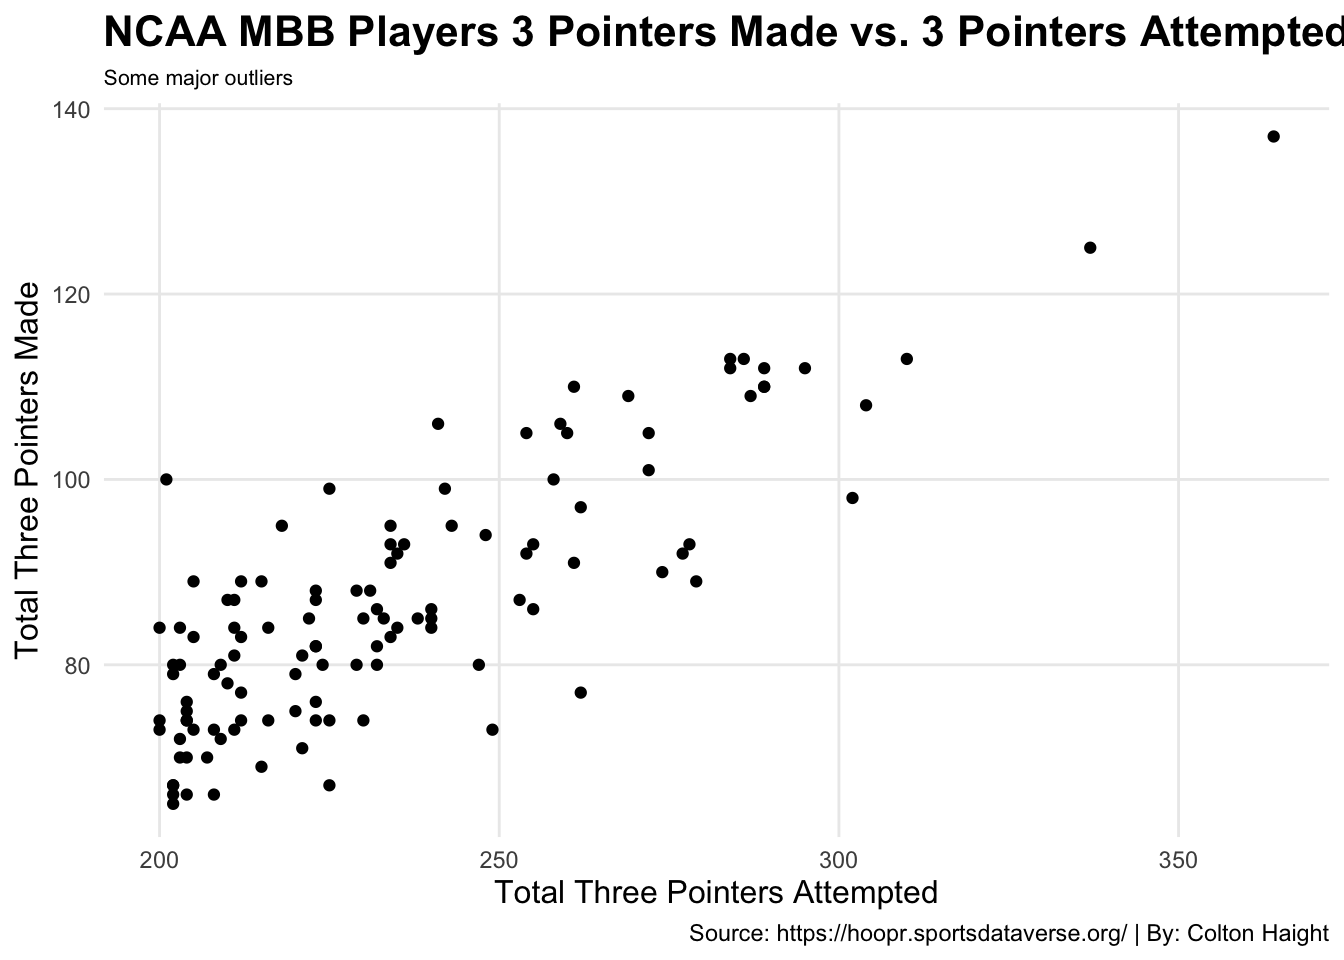
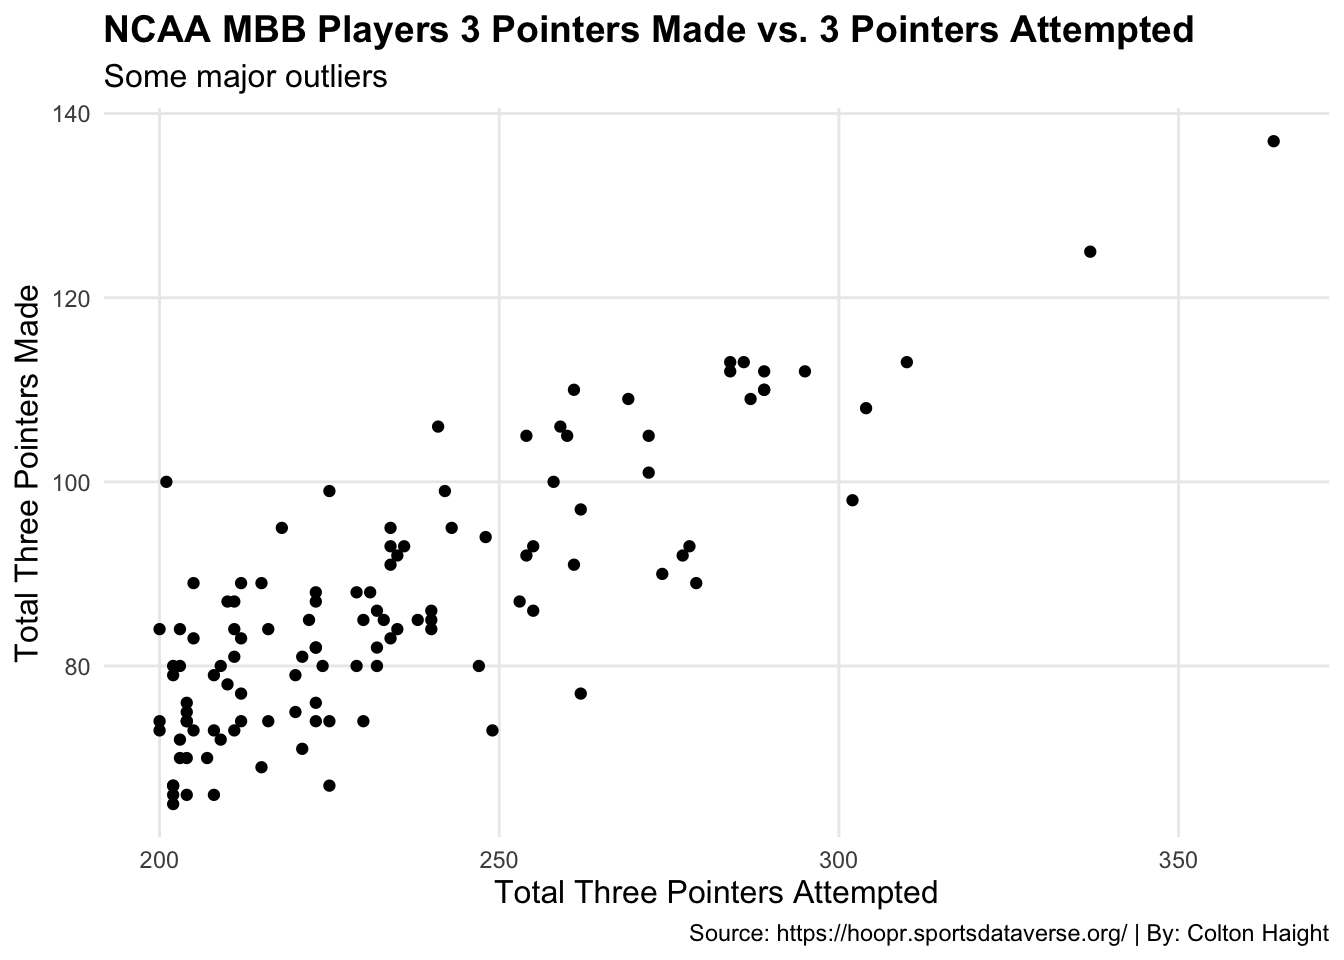
changed plots

diff --git a/posts/best-3pt-shooter-mcbb-2024/index.html b/posts/best-3pt-shooter-mcbb-2024/index.html
@@ -227,9 +227,9 @@ pre > code.sourceCode > span > a:first-child::before { text-decoration: underlin
 <span id="cb1-32"><a href="#cb1-32" aria-hidden="true" tabindex="-1"></a>  ) <span class="sc">+</span></span>
 <span id="cb1-33"><a href="#cb1-33" aria-hidden="true" tabindex="-1"></a>  <span class="fu">theme_minimal</span>() <span class="sc">+</span></span>
 <span id="cb1-34"><a href="#cb1-34" aria-hidden="true" tabindex="-1"></a>  <span class="fu">theme</span>(</span>
-<span id="cb1-35"><a href="#cb1-35" aria-hidden="true" tabindex="-1"></a>    <span class="at">plot.title =</span> <span class="fu">element_text</span>(<span class="at">size =</span> <span class="dv">16</span>, <span class="at">face =</span> <span class="st">"bold"</span>),</span>
+<span id="cb1-35"><a href="#cb1-35" aria-hidden="true" tabindex="-1"></a>    <span class="at">plot.title =</span> <span class="fu">element_text</span>(<span class="at">size =</span> <span class="dv">14</span>, <span class="at">face =</span> <span class="st">"bold"</span>),</span>
 <span id="cb1-36"><a href="#cb1-36" aria-hidden="true" tabindex="-1"></a>    <span class="at">axis.title =</span> <span class="fu">element_text</span>(<span class="at">size =</span> <span class="dv">12</span>), </span>
-<span id="cb1-37"><a href="#cb1-37" aria-hidden="true" tabindex="-1"></a>    <span class="at">plot.subtitle =</span> <span class="fu">element_text</span>(<span class="at">size =</span> <span class="dv">8</span>), </span>
+<span id="cb1-37"><a href="#cb1-37" aria-hidden="true" tabindex="-1"></a>    <span class="at">plot.subtitle =</span> <span class="fu">element_text</span>(<span class="at">size =</span> <span class="dv">12</span>), </span>
 <span id="cb1-38"><a href="#cb1-38" aria-hidden="true" tabindex="-1"></a>    <span class="at">panel.grid.minor =</span> <span class="fu">element_blank</span>()</span>
 <span id="cb1-39"><a href="#cb1-39" aria-hidden="true" tabindex="-1"></a>  )</span></code><button title="Copy to Clipboard" class="code-copy-button"><i class="bi"></i></button></pre></div>
 </details>
@@ -240,6 +240,9 @@ pre > code.sourceCode > span > a:first-child::before { text-decoration: underlin
 </figure>
 </div>
 </div>
+</div>
+<p>hello</p>
+<div class="cell">
 <details class="code-fold">
 <summary>Code</summary>
 <div class="sourceCode cell-code" id="cb2"><pre class="sourceCode r code-with-copy"><code class="sourceCode r"><span id="cb2-1"><a href="#cb2-1" aria-hidden="true" tabindex="-1"></a>jg3pt <span class="ot">&lt;-</span> mbb3pt199<span class="sc">|&gt;</span> <span class="fu">filter</span>(athlete_display_name <span class="sc">==</span> <span class="st">"Jack Gohlke"</span>)</span>
@@ -256,23 +259,27 @@ pre > code.sourceCode > span > a:first-child::before { text-decoration: underlin
 <span id="cb2-12"><a href="#cb2-12" aria-hidden="true" tabindex="-1"></a>    <span class="at">y =</span> <span class="st">"Total Three Pointers Made"</span>,</span>
 <span id="cb2-13"><a href="#cb2-13" aria-hidden="true" tabindex="-1"></a>    <span class="at">title =</span> <span class="st">"NCAA MBB Players 3 Pointers Made vs. 3 Pointers Attempted"</span>,</span>
 <span id="cb2-14"><a href="#cb2-14" aria-hidden="true" tabindex="-1"></a>    <span class="at">subtitle =</span> <span class="st">"Bubble size is based off player three point percentage"</span>,</span>
-<span id="cb2-15"><a href="#cb2-15" aria-hidden="true" tabindex="-1"></a>    <span class="at">caption =</span> <span class="st">"Source: https://hoopr.sportsdataverse.org/ | By: Colton Haight"</span></span>
-<span id="cb2-16"><a href="#cb2-16" aria-hidden="true" tabindex="-1"></a>  ) <span class="sc">+</span></span>
-<span id="cb2-17"><a href="#cb2-17" aria-hidden="true" tabindex="-1"></a>  <span class="fu">theme_minimal</span>() <span class="sc">+</span></span>
-<span id="cb2-18"><a href="#cb2-18" aria-hidden="true" tabindex="-1"></a>  <span class="fu">theme</span>(</span>
-<span id="cb2-19"><a href="#cb2-19" aria-hidden="true" tabindex="-1"></a>    <span class="at">plot.title =</span> <span class="fu">element_text</span>(<span class="at">size =</span> <span class="dv">16</span>, <span class="at">face =</span> <span class="st">"bold"</span>),</span>
-<span id="cb2-20"><a href="#cb2-20" aria-hidden="true" tabindex="-1"></a>    <span class="at">axis.title =</span> <span class="fu">element_text</span>(<span class="at">size =</span> <span class="dv">12</span>), </span>
-<span id="cb2-21"><a href="#cb2-21" aria-hidden="true" tabindex="-1"></a>    <span class="at">plot.subtitle =</span> <span class="fu">element_text</span>(<span class="at">size =</span> <span class="dv">8</span>), </span>
-<span id="cb2-22"><a href="#cb2-22" aria-hidden="true" tabindex="-1"></a>    <span class="at">panel.grid.minor =</span> <span class="fu">element_blank</span>()</span>
-<span id="cb2-23"><a href="#cb2-23" aria-hidden="true" tabindex="-1"></a>)</span></code><button title="Copy to Clipboard" class="code-copy-button"><i class="bi"></i></button></pre></div>
+<span id="cb2-15"><a href="#cb2-15" aria-hidden="true" tabindex="-1"></a>    <span class="at">caption =</span> <span class="st">"Source: https://hoopr.sportsdataverse.org/ | By: Colton Haight"</span>,</span>
+<span id="cb2-16"><a href="#cb2-16" aria-hidden="true" tabindex="-1"></a>    <span class="at">size =</span> <span class="st">"Player 3pt %"</span></span>
+<span id="cb2-17"><a href="#cb2-17" aria-hidden="true" tabindex="-1"></a>  ) <span class="sc">+</span></span>
+<span id="cb2-18"><a href="#cb2-18" aria-hidden="true" tabindex="-1"></a>  <span class="fu">theme_minimal</span>() <span class="sc">+</span></span>
+<span id="cb2-19"><a href="#cb2-19" aria-hidden="true" tabindex="-1"></a>  <span class="fu">theme</span>(</span>
+<span id="cb2-20"><a href="#cb2-20" aria-hidden="true" tabindex="-1"></a>    <span class="at">plot.title =</span> <span class="fu">element_text</span>(<span class="at">size =</span> <span class="dv">14</span>, <span class="at">face =</span> <span class="st">"bold"</span>),</span>
+<span id="cb2-21"><a href="#cb2-21" aria-hidden="true" tabindex="-1"></a>    <span class="at">axis.title =</span> <span class="fu">element_text</span>(<span class="at">size =</span> <span class="dv">12</span>), </span>
+<span id="cb2-22"><a href="#cb2-22" aria-hidden="true" tabindex="-1"></a>    <span class="at">plot.subtitle =</span> <span class="fu">element_text</span>(<span class="at">size =</span> <span class="dv">12</span>), </span>
+<span id="cb2-23"><a href="#cb2-23" aria-hidden="true" tabindex="-1"></a>    <span class="at">panel.grid.minor =</span> <span class="fu">element_blank</span>()</span>
+<span id="cb2-24"><a href="#cb2-24" aria-hidden="true" tabindex="-1"></a>)</span></code><button title="Copy to Clipboard" class="code-copy-button"><i class="bi"></i></button></pre></div>
 </details>
 <div class="cell-output-display">
 <div>
 <figure class="figure">
-<p><img src="index_files/figure-html/unnamed-chunk-1-2.png" class="img-fluid figure-img" width="672"></p>
+<p><img src="index_files/figure-html/unnamed-chunk-2-1.png" class="img-fluid figure-img" width="672"></p>
 </figure>
 </div>
 </div>
+</div>
+<p>hello</p>
+<div class="cell">
 <details class="code-fold">
 <summary>Code</summary>
 <div class="sourceCode cell-code" id="cb3"><pre class="sourceCode r code-with-copy"><code class="sourceCode r"><span id="cb3-1"><a href="#cb3-1" aria-hidden="true" tabindex="-1"></a>mbb3pt40pct <span class="ot">&lt;-</span> mbb3pt199<span class="sc">|&gt;</span></span>
@@ -297,23 +304,27 @@ pre > code.sourceCode > span > a:first-child::before { text-decoration: underlin
 <span id="cb3-20"><a href="#cb3-20" aria-hidden="true" tabindex="-1"></a>    <span class="at">y =</span> <span class="st">"Player Three Point Percentage"</span>,</span>
 <span id="cb3-21"><a href="#cb3-21" aria-hidden="true" tabindex="-1"></a>    <span class="at">title =</span> <span class="st">"NCAA MBB Players 3 Point Percentage vs. Total Points Scored"</span>,</span>
 <span id="cb3-22"><a href="#cb3-22" aria-hidden="true" tabindex="-1"></a>    <span class="at">subtitle =</span> <span class="st">"Bubble size is based off player total three pointers made"</span>,</span>
-<span id="cb3-23"><a href="#cb3-23" aria-hidden="true" tabindex="-1"></a>    <span class="at">caption =</span> <span class="st">"Source: https://hoopr.sportsdataverse.org/ | By: Colton Haight"</span></span>
-<span id="cb3-24"><a href="#cb3-24" aria-hidden="true" tabindex="-1"></a>  ) <span class="sc">+</span></span>
-<span id="cb3-25"><a href="#cb3-25" aria-hidden="true" tabindex="-1"></a>  <span class="fu">theme_minimal</span>() <span class="sc">+</span></span>
-<span id="cb3-26"><a href="#cb3-26" aria-hidden="true" tabindex="-1"></a>  <span class="fu">theme</span>(</span>
-<span id="cb3-27"><a href="#cb3-27" aria-hidden="true" tabindex="-1"></a>    <span class="at">plot.title =</span> <span class="fu">element_text</span>(<span class="at">size =</span> <span class="dv">16</span>, <span class="at">face =</span> <span class="st">"bold"</span>),</span>
-<span id="cb3-28"><a href="#cb3-28" aria-hidden="true" tabindex="-1"></a>    <span class="at">axis.title =</span> <span class="fu">element_text</span>(<span class="at">size =</span> <span class="dv">12</span>), </span>
-<span id="cb3-29"><a href="#cb3-29" aria-hidden="true" tabindex="-1"></a>    <span class="at">plot.subtitle =</span> <span class="fu">element_text</span>(<span class="at">size =</span> <span class="dv">8</span>), </span>
-<span id="cb3-30"><a href="#cb3-30" aria-hidden="true" tabindex="-1"></a>    <span class="at">panel.grid.minor =</span> <span class="fu">element_blank</span>()</span>
-<span id="cb3-31"><a href="#cb3-31" aria-hidden="true" tabindex="-1"></a>)</span></code><button title="Copy to Clipboard" class="code-copy-button"><i class="bi"></i></button></pre></div>
+<span id="cb3-23"><a href="#cb3-23" aria-hidden="true" tabindex="-1"></a>    <span class="at">caption =</span> <span class="st">"Source: https://hoopr.sportsdataverse.org/ | By: Colton Haight"</span>,</span>
+<span id="cb3-24"><a href="#cb3-24" aria-hidden="true" tabindex="-1"></a>    <span class="at">size =</span> <span class="st">"Total 3pt Made"</span></span>
+<span id="cb3-25"><a href="#cb3-25" aria-hidden="true" tabindex="-1"></a>  ) <span class="sc">+</span></span>
+<span id="cb3-26"><a href="#cb3-26" aria-hidden="true" tabindex="-1"></a>  <span class="fu">theme_minimal</span>() <span class="sc">+</span></span>
+<span id="cb3-27"><a href="#cb3-27" aria-hidden="true" tabindex="-1"></a>  <span class="fu">theme</span>(</span>
+<span id="cb3-28"><a href="#cb3-28" aria-hidden="true" tabindex="-1"></a>    <span class="at">plot.title =</span> <span class="fu">element_text</span>(<span class="at">size =</span> <span class="dv">14</span>, <span class="at">face =</span> <span class="st">"bold"</span>),</span>
+<span id="cb3-29"><a href="#cb3-29" aria-hidden="true" tabindex="-1"></a>    <span class="at">axis.title =</span> <span class="fu">element_text</span>(<span class="at">size =</span> <span class="dv">12</span>), </span>
+<span id="cb3-30"><a href="#cb3-30" aria-hidden="true" tabindex="-1"></a>    <span class="at">plot.subtitle =</span> <span class="fu">element_text</span>(<span class="at">size =</span> <span class="dv">12</span>), </span>
+<span id="cb3-31"><a href="#cb3-31" aria-hidden="true" tabindex="-1"></a>    <span class="at">panel.grid.minor =</span> <span class="fu">element_blank</span>()</span>
+<span id="cb3-32"><a href="#cb3-32" aria-hidden="true" tabindex="-1"></a>)</span></code><button title="Copy to Clipboard" class="code-copy-button"><i class="bi"></i></button></pre></div>
 </details>
 <div class="cell-output-display">
 <div>
 <figure class="figure">
-<p><img src="index_files/figure-html/unnamed-chunk-1-3.png" class="img-fluid figure-img" width="672"></p>
+<p><img src="index_files/figure-html/unnamed-chunk-3-1.png" class="img-fluid figure-img" width="672"></p>
 </figure>
 </div>
 </div>
+</div>
+<p>hello</p>
+<div class="cell">
 <details class="code-fold">
 <summary>Code</summary>
 <div class="sourceCode cell-code" id="cb4"><pre class="sourceCode r code-with-copy"><code class="sourceCode r"><span id="cb4-1"><a href="#cb4-1" aria-hidden="true" tabindex="-1"></a>mbb3madetop10 <span class="ot">&lt;-</span> mbb3pt199<span class="sc">|&gt;</span></span>
@@ -326,28 +337,30 @@ pre > code.sourceCode > span > a:first-child::before { text-decoration: underlin
 <span id="cb4-8"><a href="#cb4-8" aria-hidden="true" tabindex="-1"></a>    <span class="at">names_to =</span> <span class="st">"TypeOfPoint"</span>,</span>
 <span id="cb4-9"><a href="#cb4-9" aria-hidden="true" tabindex="-1"></a>    <span class="at">values_to =</span> <span class="st">"points"</span></span>
 <span id="cb4-10"><a href="#cb4-10" aria-hidden="true" tabindex="-1"></a>  )</span>
-<span id="cb4-11"><a href="#cb4-11" aria-hidden="true" tabindex="-1"></a></span>
-<span id="cb4-12"><a href="#cb4-12" aria-hidden="true" tabindex="-1"></a><span class="fu">ggplot</span>(<span class="at">data =</span> mbb3madetop10, <span class="fu">aes</span>(<span class="at">x =</span> <span class="fu">reorder</span>(athlete_display_name, pointsoff3pts), <span class="at">weight =</span> pointsoff3pts)) <span class="sc">+</span></span>
-<span id="cb4-13"><a href="#cb4-13" aria-hidden="true" tabindex="-1"></a>  <span class="fu">geom_bar</span>() <span class="sc">+</span> </span>
-<span id="cb4-14"><a href="#cb4-14" aria-hidden="true" tabindex="-1"></a>  <span class="fu">coord_flip</span>()</span></code><button title="Copy to Clipboard" class="code-copy-button"><i class="bi"></i></button></pre></div>
+<span id="cb4-11"><a href="#cb4-11" aria-hidden="true" tabindex="-1"></a>  </span>
+<span id="cb4-12"><a href="#cb4-12" aria-hidden="true" tabindex="-1"></a><span class="fu">ggplot</span>(<span class="at">data =</span> mbb3ptlong, <span class="fu">aes</span>(<span class="at">x =</span> <span class="fu">reorder</span>(athlete_display_name, total3ptmade), <span class="at">weight =</span> points, <span class="at">fill =</span> TypeOfPoint)) <span class="sc">+</span></span>
+<span id="cb4-13"><a href="#cb4-13" aria-hidden="true" tabindex="-1"></a>  <span class="fu">geom_bar</span>() <span class="sc">+</span></span>
+<span id="cb4-14"><a href="#cb4-14" aria-hidden="true" tabindex="-1"></a>  <span class="fu">coord_flip</span>() <span class="sc">+</span></span>
+<span id="cb4-15"><a href="#cb4-15" aria-hidden="true" tabindex="-1"></a>  <span class="fu">labs</span>(</span>
+<span id="cb4-16"><a href="#cb4-16" aria-hidden="true" tabindex="-1"></a>    <span class="at">x =</span> <span class="st">"Player Name"</span>,</span>
+<span id="cb4-17"><a href="#cb4-17" aria-hidden="true" tabindex="-1"></a>    <span class="at">y =</span> <span class="st">"Total Player Points"</span>,</span>
+<span id="cb4-18"><a href="#cb4-18" aria-hidden="true" tabindex="-1"></a>    <span class="at">title =</span> <span class="st">"NCAA MBB Players Comparison Of Type Of Point"</span>,</span>
+<span id="cb4-19"><a href="#cb4-19" aria-hidden="true" tabindex="-1"></a>    <span class="at">subtitle =</span> <span class="st">"Blue is player points off threes and red is total points"</span>,</span>
+<span id="cb4-20"><a href="#cb4-20" aria-hidden="true" tabindex="-1"></a>    <span class="at">caption =</span> <span class="st">"Source: https://hoopr.sportsdataverse.org/ | By: Colton Haight"</span>,</span>
+<span id="cb4-21"><a href="#cb4-21" aria-hidden="true" tabindex="-1"></a>    <span class="at">fill =</span> <span class="st">"Type of Point"</span></span>
+<span id="cb4-22"><a href="#cb4-22" aria-hidden="true" tabindex="-1"></a>  ) <span class="sc">+</span></span>
+<span id="cb4-23"><a href="#cb4-23" aria-hidden="true" tabindex="-1"></a>  <span class="fu">theme_minimal</span>() <span class="sc">+</span></span>
+<span id="cb4-24"><a href="#cb4-24" aria-hidden="true" tabindex="-1"></a>  <span class="fu">theme</span>(</span>
+<span id="cb4-25"><a href="#cb4-25" aria-hidden="true" tabindex="-1"></a>    <span class="at">plot.title =</span> <span class="fu">element_text</span>(<span class="at">size =</span> <span class="dv">14</span>, <span class="at">face =</span> <span class="st">"bold"</span>),</span>
+<span id="cb4-26"><a href="#cb4-26" aria-hidden="true" tabindex="-1"></a>    <span class="at">axis.title =</span> <span class="fu">element_text</span>(<span class="at">size =</span> <span class="dv">12</span>), </span>
+<span id="cb4-27"><a href="#cb4-27" aria-hidden="true" tabindex="-1"></a>    <span class="at">plot.subtitle =</span> <span class="fu">element_text</span>(<span class="at">size =</span> <span class="dv">12</span>), </span>
+<span id="cb4-28"><a href="#cb4-28" aria-hidden="true" tabindex="-1"></a>    <span class="at">panel.grid.minor =</span> <span class="fu">element_blank</span>()</span>
+<span id="cb4-29"><a href="#cb4-29" aria-hidden="true" tabindex="-1"></a>  )</span></code><button title="Copy to Clipboard" class="code-copy-button"><i class="bi"></i></button></pre></div>
 </details>
 <div class="cell-output-display">
 <div>
 <figure class="figure">
-<p><img src="index_files/figure-html/unnamed-chunk-1-4.png" class="img-fluid figure-img" width="672"></p>
-</figure>
-</div>
-</div>
-<details class="code-fold">
-<summary>Code</summary>
-<div class="sourceCode cell-code" id="cb5"><pre class="sourceCode r code-with-copy"><code class="sourceCode r"><span id="cb5-1"><a href="#cb5-1" aria-hidden="true" tabindex="-1"></a><span class="fu">ggplot</span>(<span class="at">data =</span> mbb3ptlong, <span class="fu">aes</span>(<span class="at">x =</span> <span class="fu">reorder</span>(athlete_display_name, total3ptmade), <span class="at">weight =</span> points, <span class="at">fill =</span> TypeOfPoint)) <span class="sc">+</span></span>
-<span id="cb5-2"><a href="#cb5-2" aria-hidden="true" tabindex="-1"></a>  <span class="fu">geom_bar</span>() <span class="sc">+</span></span>
-<span id="cb5-3"><a href="#cb5-3" aria-hidden="true" tabindex="-1"></a>  <span class="fu">coord_flip</span>()</span></code><button title="Copy to Clipboard" class="code-copy-button"><i class="bi"></i></button></pre></div>
-</details>
-<div class="cell-output-display">
-<div>
-<figure class="figure">
-<p><img src="index_files/figure-html/unnamed-chunk-1-5.png" class="img-fluid figure-img" width="672"></p>
+<p><img src="index_files/figure-html/unnamed-chunk-4-1.png" class="img-fluid figure-img" width="672"></p>
 </figure>
 </div>
 </div>

diff --git a/index.html b/index.html
@@ -205,7 +205,7 @@ window.Quarto = {
 
 <div class="quarto-listing quarto-listing-container-default" id="listing-listing">
 <div class="list quarto-listing-default">
-<div class="quarto-post image-right" data-index="0" data-categories="TkNBQSxCYXNrZXRiYWw=" data-listing-date-sort="1730786400000" data-listing-file-modified-sort="1731024291923" data-listing-date-modified-sort="NaN" data-listing-reading-time-sort="4" data-listing-word-count-sort="706">
+<div class="quarto-post image-right" data-index="0" data-categories="TkNBQSxCYXNrZXRiYWw=" data-listing-date-sort="1730786400000" data-listing-file-modified-sort="1731120729679" data-listing-date-modified-sort="NaN" data-listing-reading-time-sort="5" data-listing-word-count-sort="817">
 <div class="thumbnail">
 <p><a href="./posts/best-3pt-shooter-mcbb-2024/index.html" class="no-external"></a></p><a href="./posts/best-3pt-shooter-mcbb-2024/index.html" class="no-external">
 <p><img loading="lazy" src="./posts/best-3pt-shooter-mcbb-2024/image.png" class="thumbnail-image"></p>
